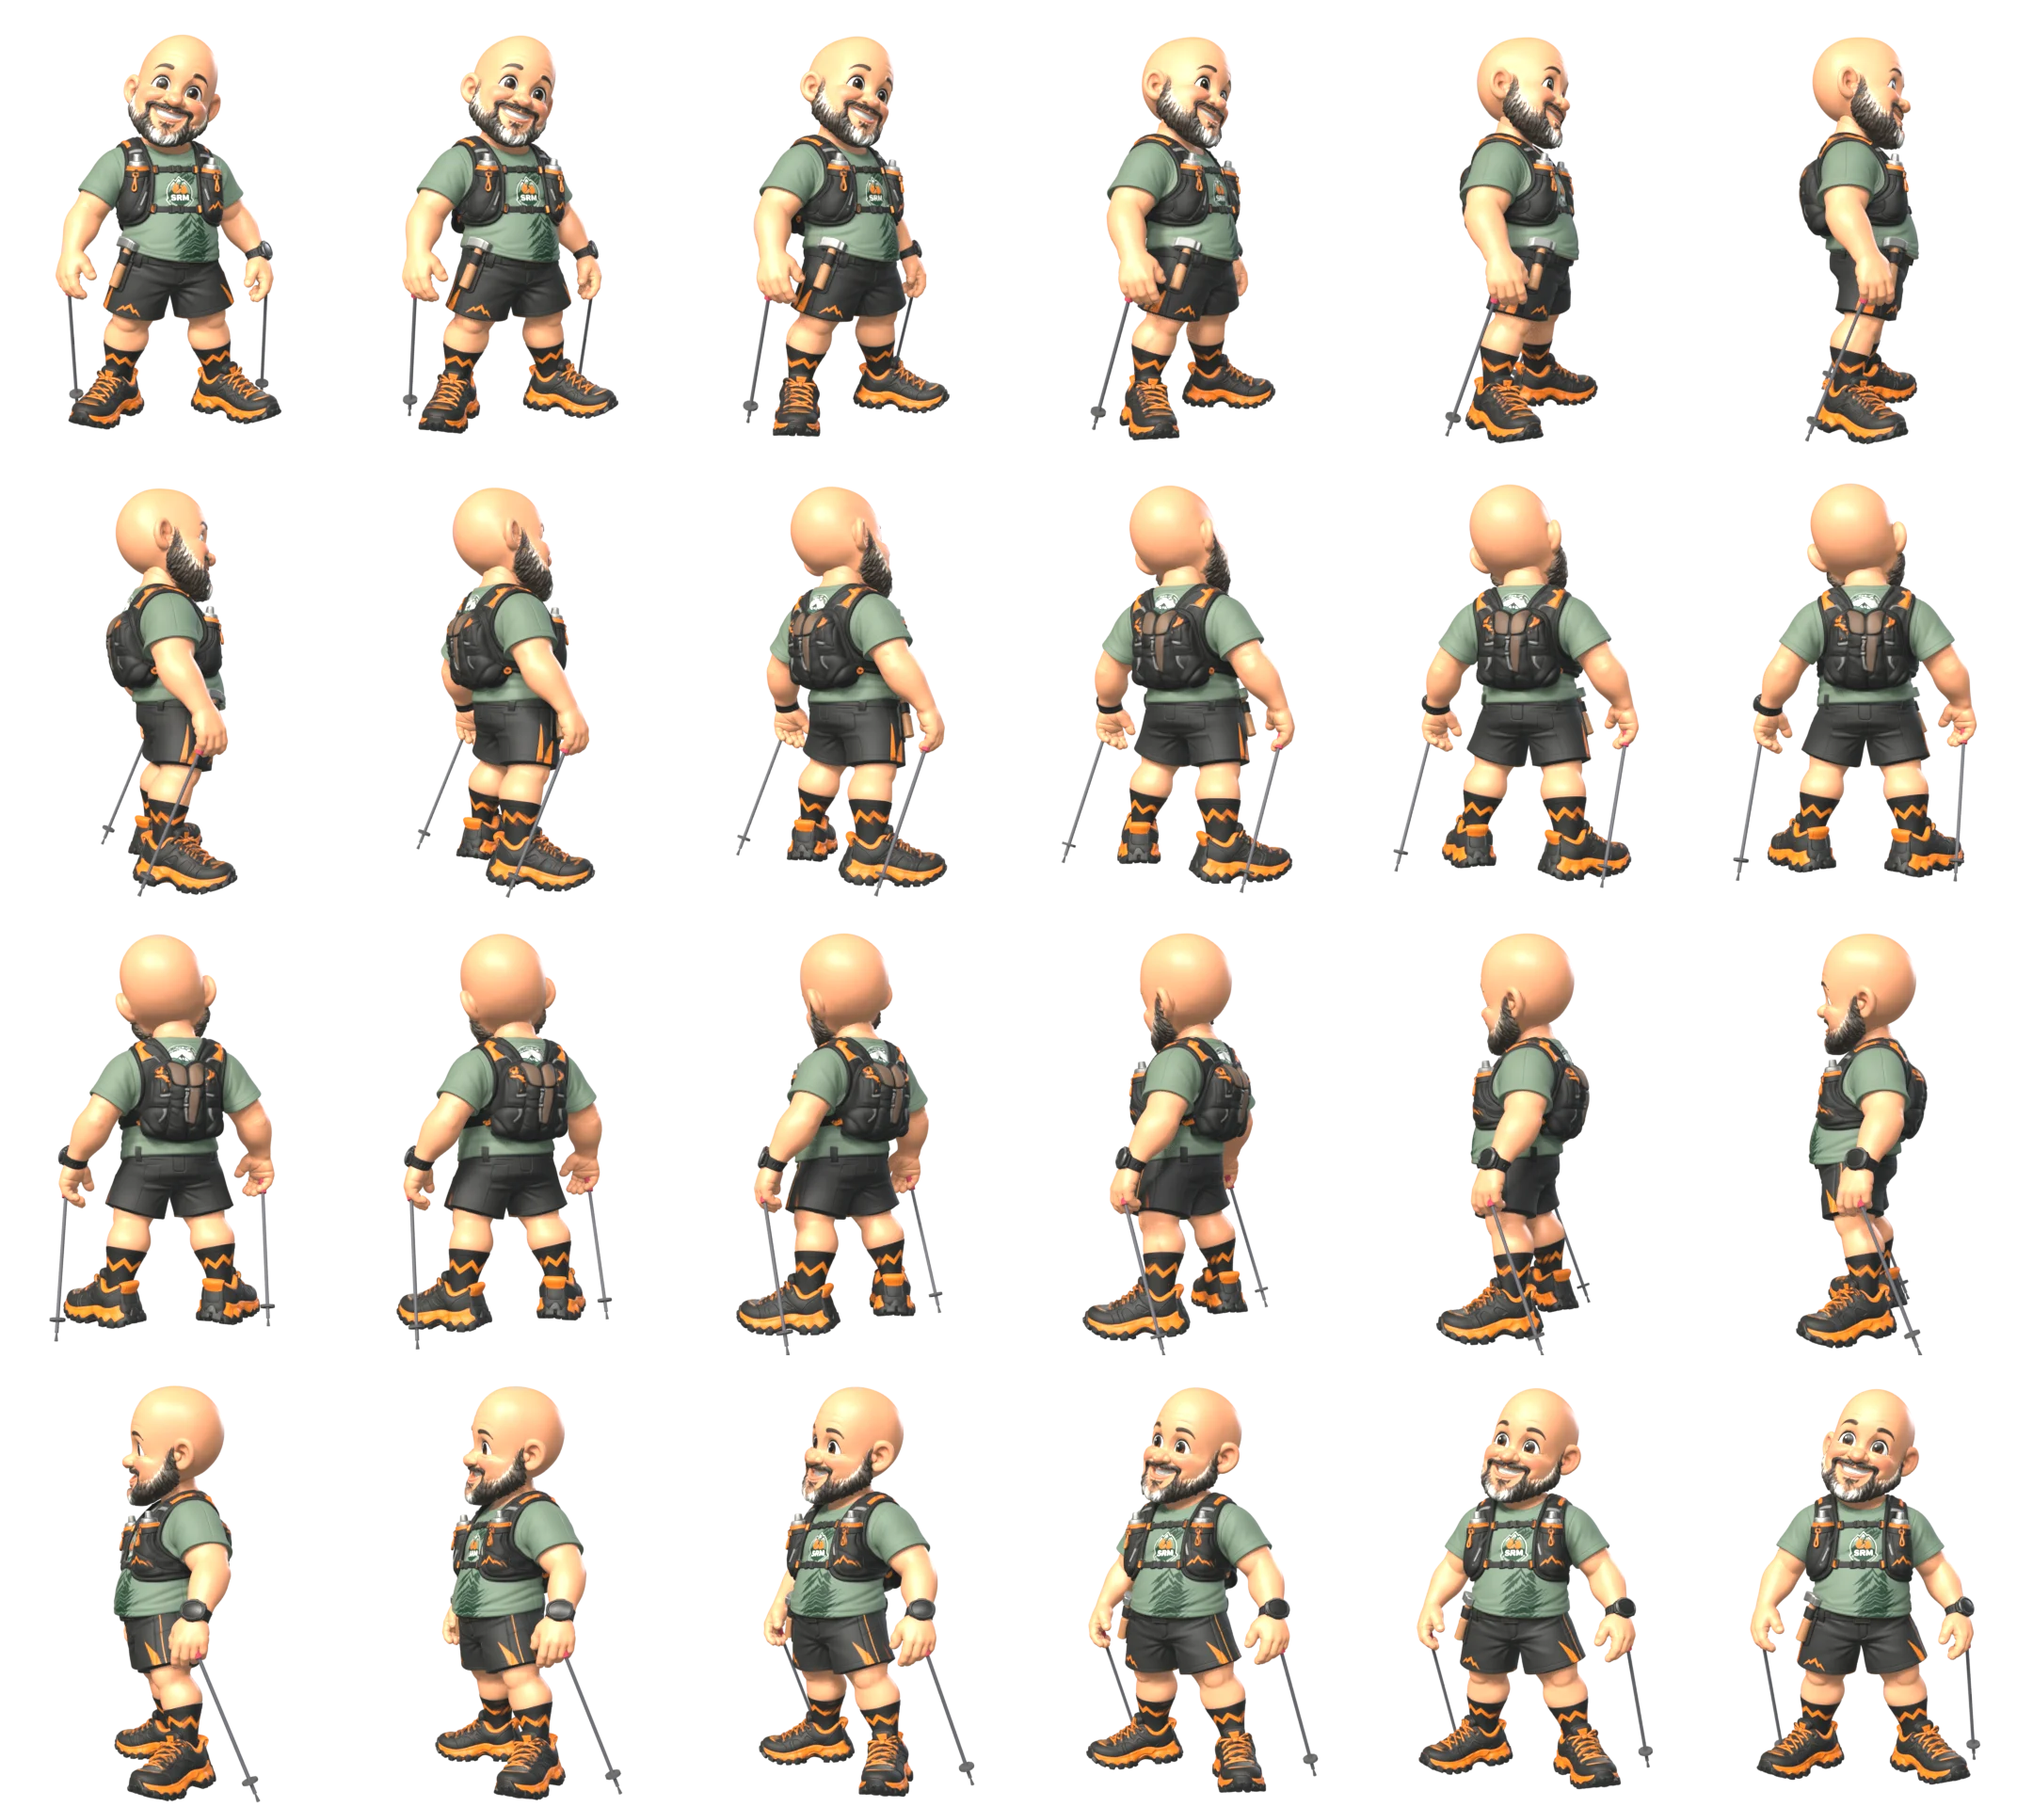
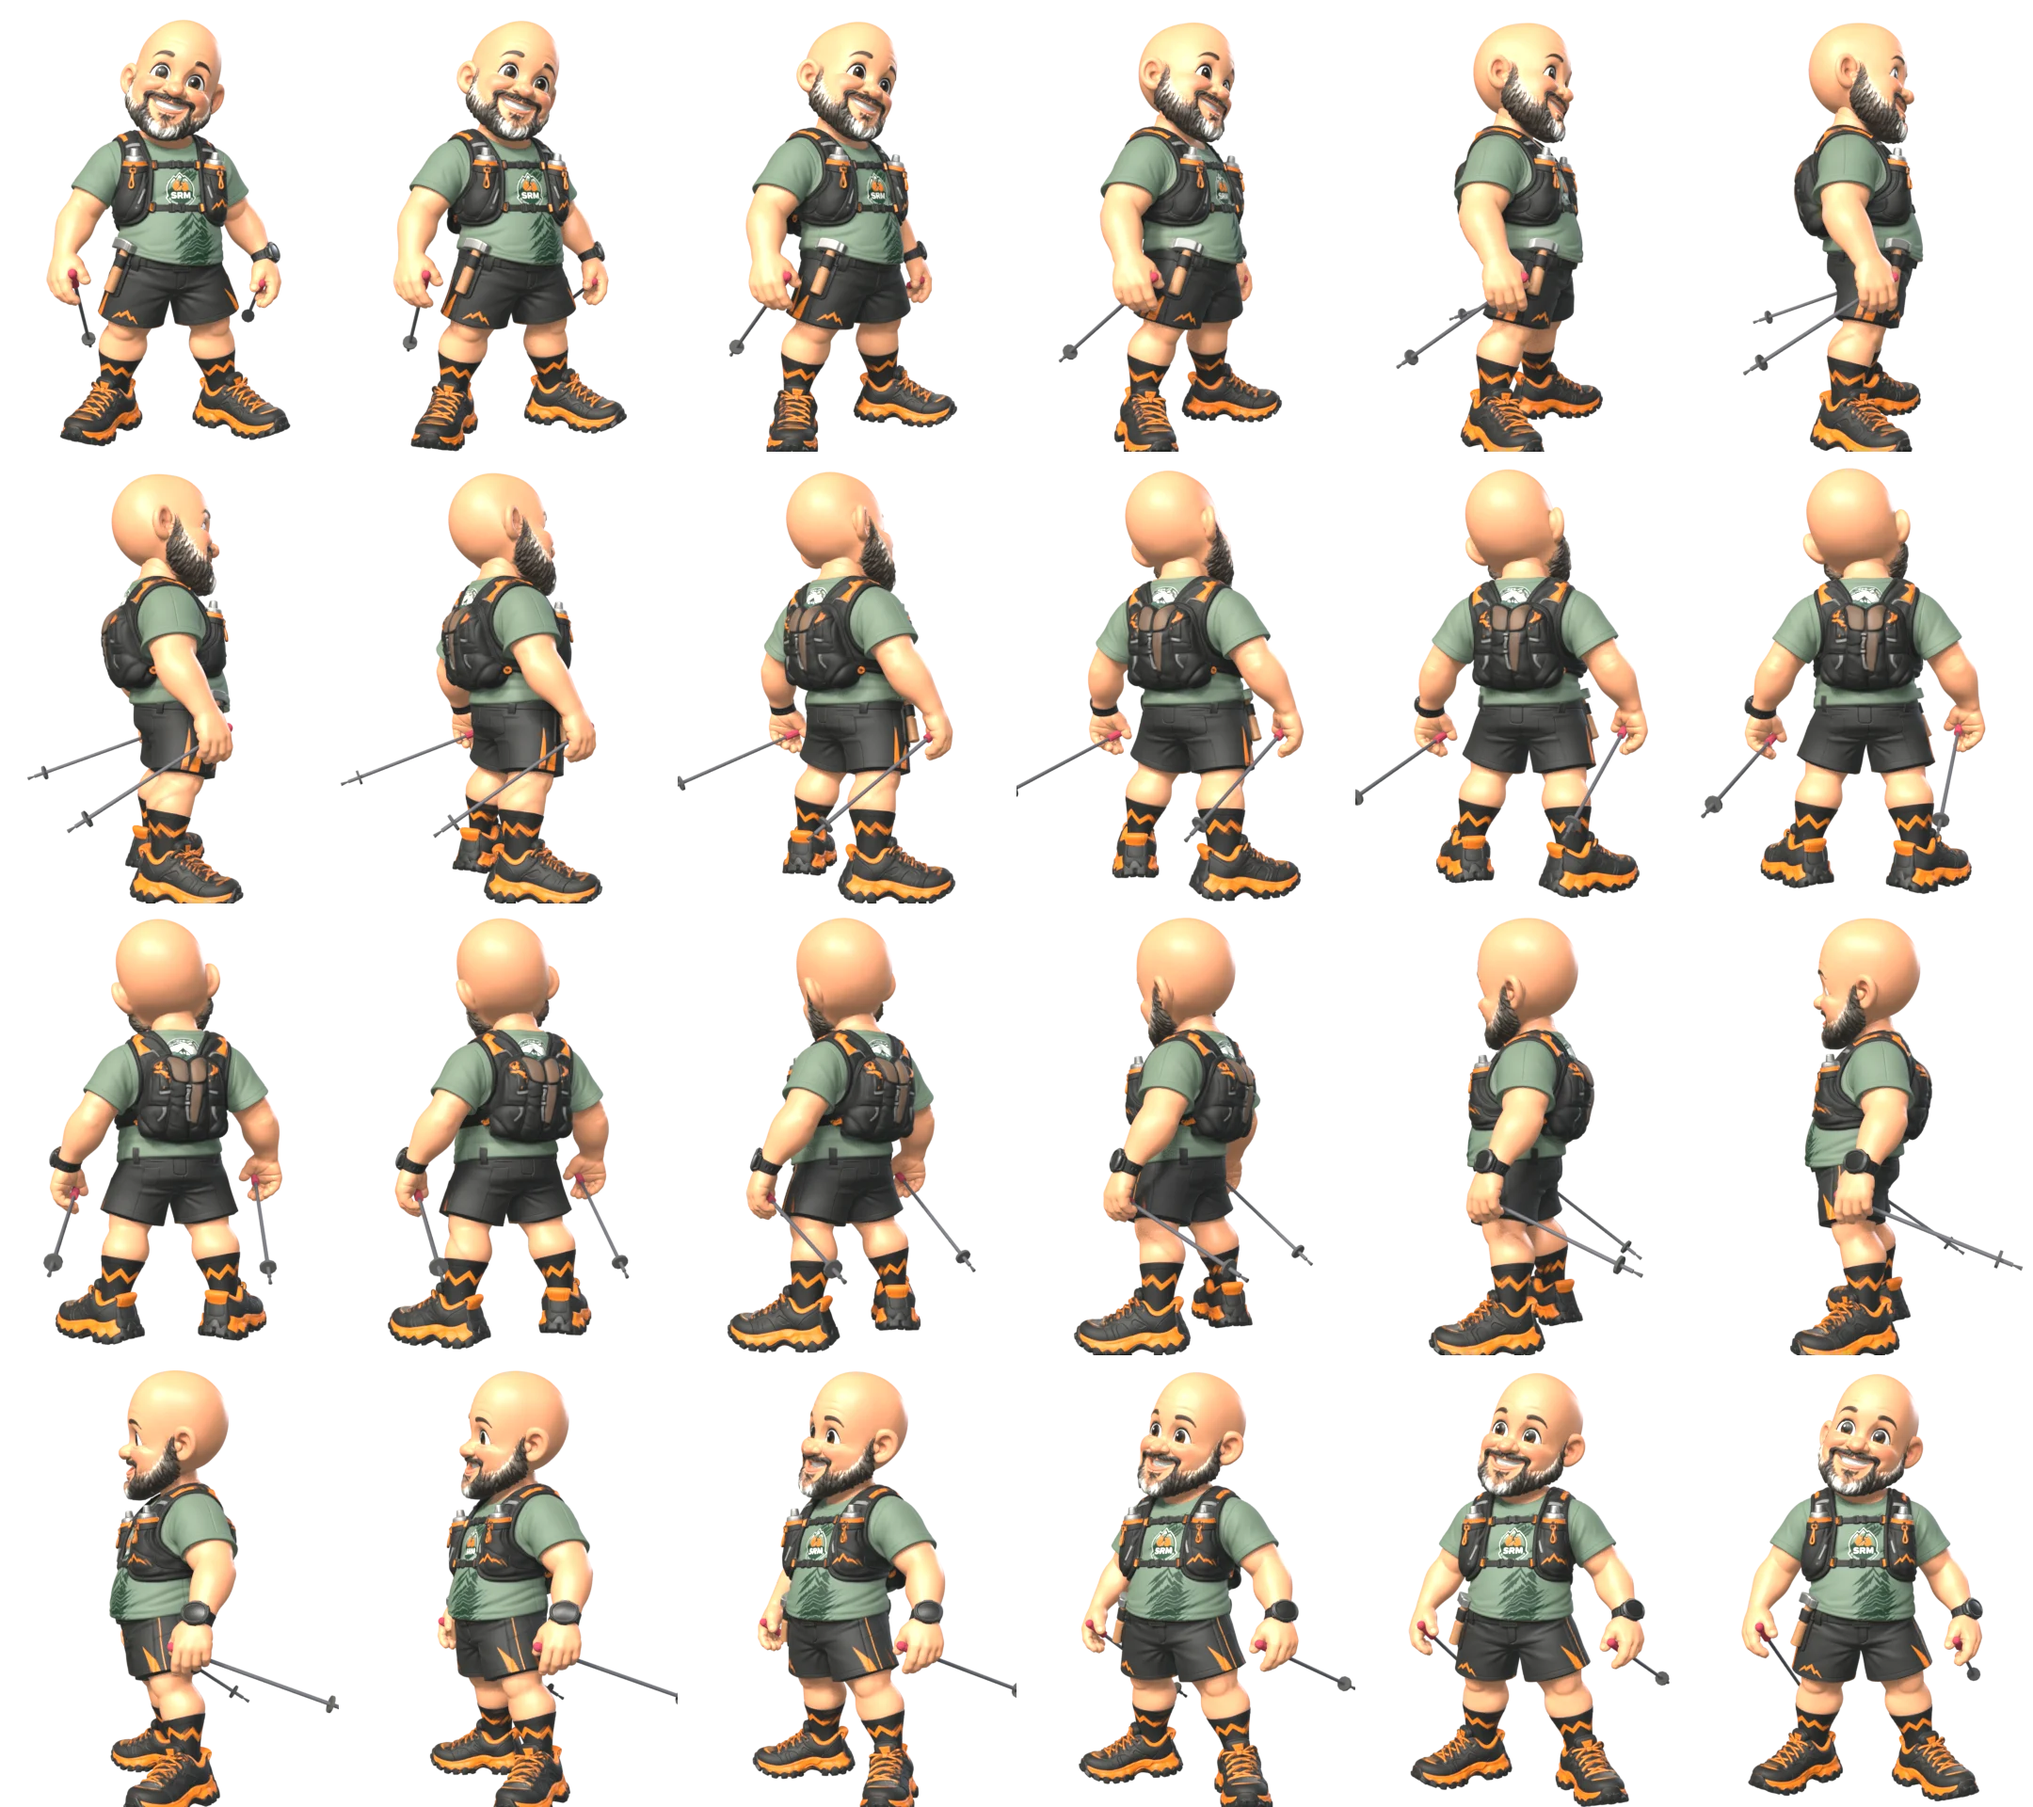
v28: sprite loading con i bastoncini posizionati da Ale
- Atlante rigenerato da loading_lino.blend: da qui in avanti le posizioni
  dei bastoncini del caricamento sono quelle salvate a mano nel blend
  (export_spin_orig.py legge direttamente quel file).
- VER v45.

Claude-Session: https://claude.ai/code/session_01VEBQDSo5ANEP4daysucSJD

diff --git a/index.html b/index.html
@@ -163,7 +163,7 @@ html,body{height:100%;overflow:hidden;background:var(--verde);color:var(--avorio
     <div class="lab" id="g-lab">Cancello</div>
     <div class="val" id="v-g">&mdash;</div>
   </div>
-  <div id="logo-top"><img src="assets/srm_logo.png?v=44" alt="Skyrace del Maglio"></div>
+  <div id="logo-top"><img src="assets/srm_logo.png?v=45" alt="Skyrace del Maglio"></div>
   <div class="slot" id="slot-sent">
     <div id="chip">E1</div>
     <div id="sent-lab">SENTIERO PERCORSO</div>
@@ -193,7 +193,7 @@ html,body{height:100%;overflow:hidden;background:var(--verde);color:var(--avorio
 <div class="cover" id="loader">
   <div id="load-t">SRM <span>EXPLORER</span></div>
   <div id="load-sub">Skyrace del Maglio 2026 · percorso in 3D</div>
-  <img id="lino-nome" src="assets/lino_nome.png?v=44" alt="LINO">
+  <img id="lino-nome" src="assets/lino_nome.png?v=45" alt="LINO">
   <div id="spinbox">
     <div id="spin-img"></div>
     <svg id="spin-svg"></svg>
@@ -217,6 +217,6 @@ html,body{height:100%;overflow:hidden;background:var(--verde);color:var(--avorio
   "three/addons/":"https://cdn.jsdelivr.net/npm/three@0.169.0/examples/jsm/"
 }}
 </script>
-<script type="module" src="app.js?v=44"></script>
+<script type="module" src="app.js?v=45"></script>
 </body>
 </html>

diff --git a/app.js b/app.js
@@ -5,7 +5,7 @@ import { OrbitControls } from 'three/addons/controls/OrbitControls.js';
 import { GLTFLoader } from 'three/addons/loaders/GLTFLoader.js';
 import { DRACOLoader } from 'three/addons/loaders/DRACOLoader.js';
 
-const VER = 'v44';
+const VER = 'v45';
 let LOADT0 = 0;
 let cumDP = null;
 const $ = id => document.getElementById(id);
